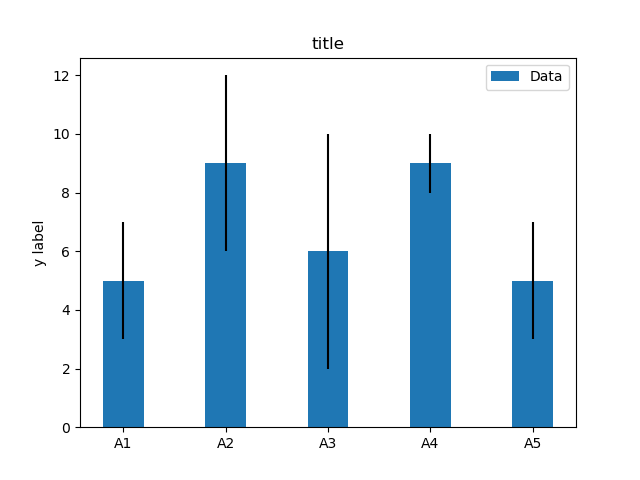
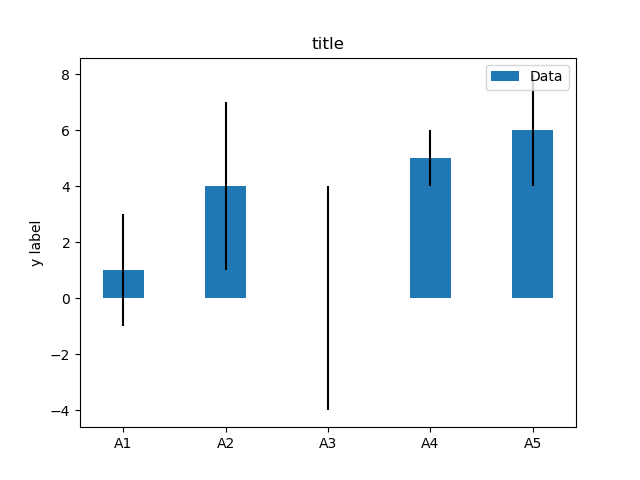
first commit

diff --git a/example.py b/example.py
@@ -2,7 +2,7 @@ import numpy as np
 import matplotlib.pyplot as plt
 
 labels = ['A1', 'A2', 'A3', 'A4', 'A5']
-m_means = [5,9,6,9,5]
+m_means = [1,4,0,5,6]
 m_std = [2, 3, 4, 1, 2]
 width = 0.40       # the width of the bars
 

diff --git a/README.md b/README.md
@@ -1,4 +1,4 @@
-# Matplotlib no 126 
+# Matplotlib no 127 
 
 python example
 
